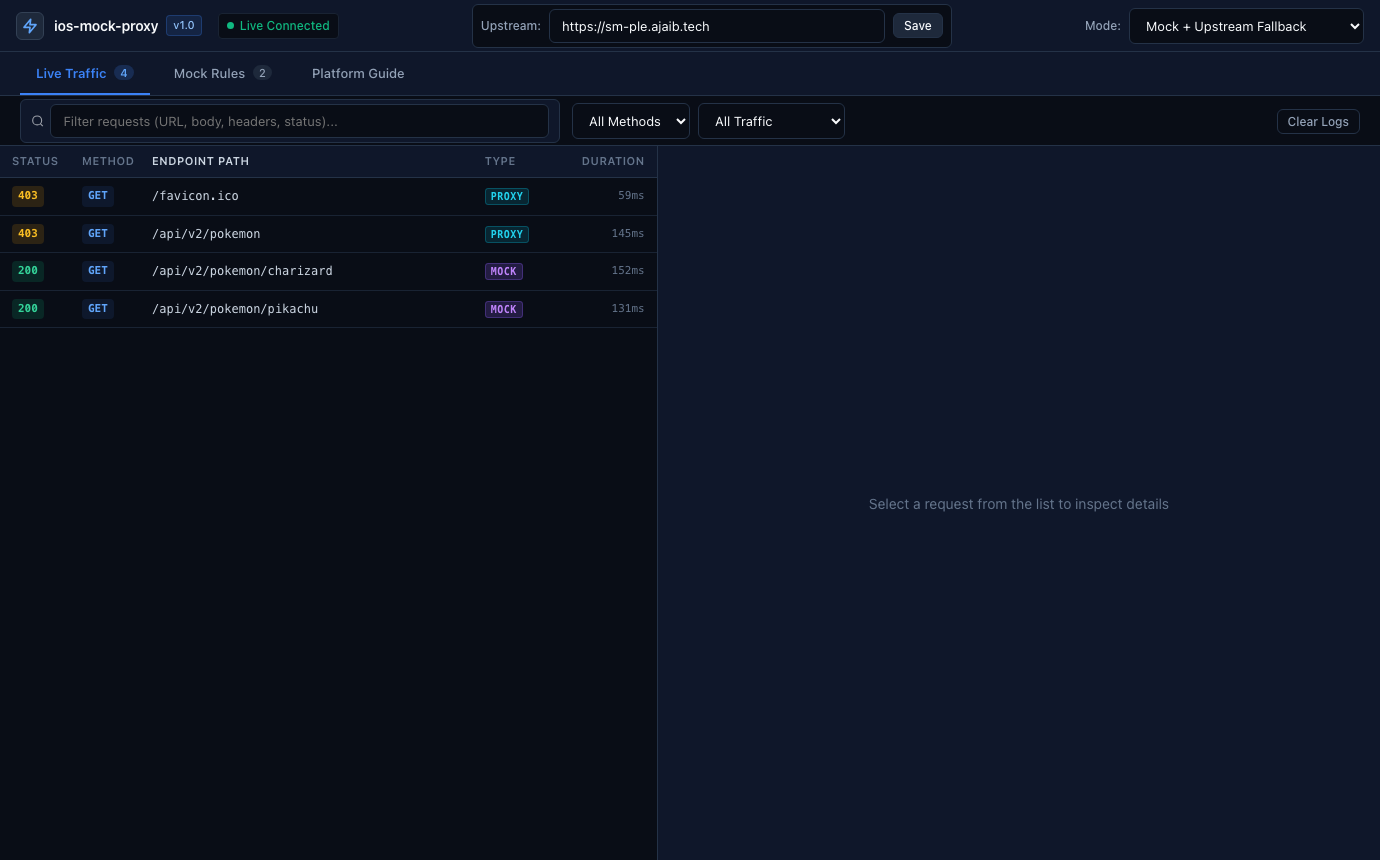
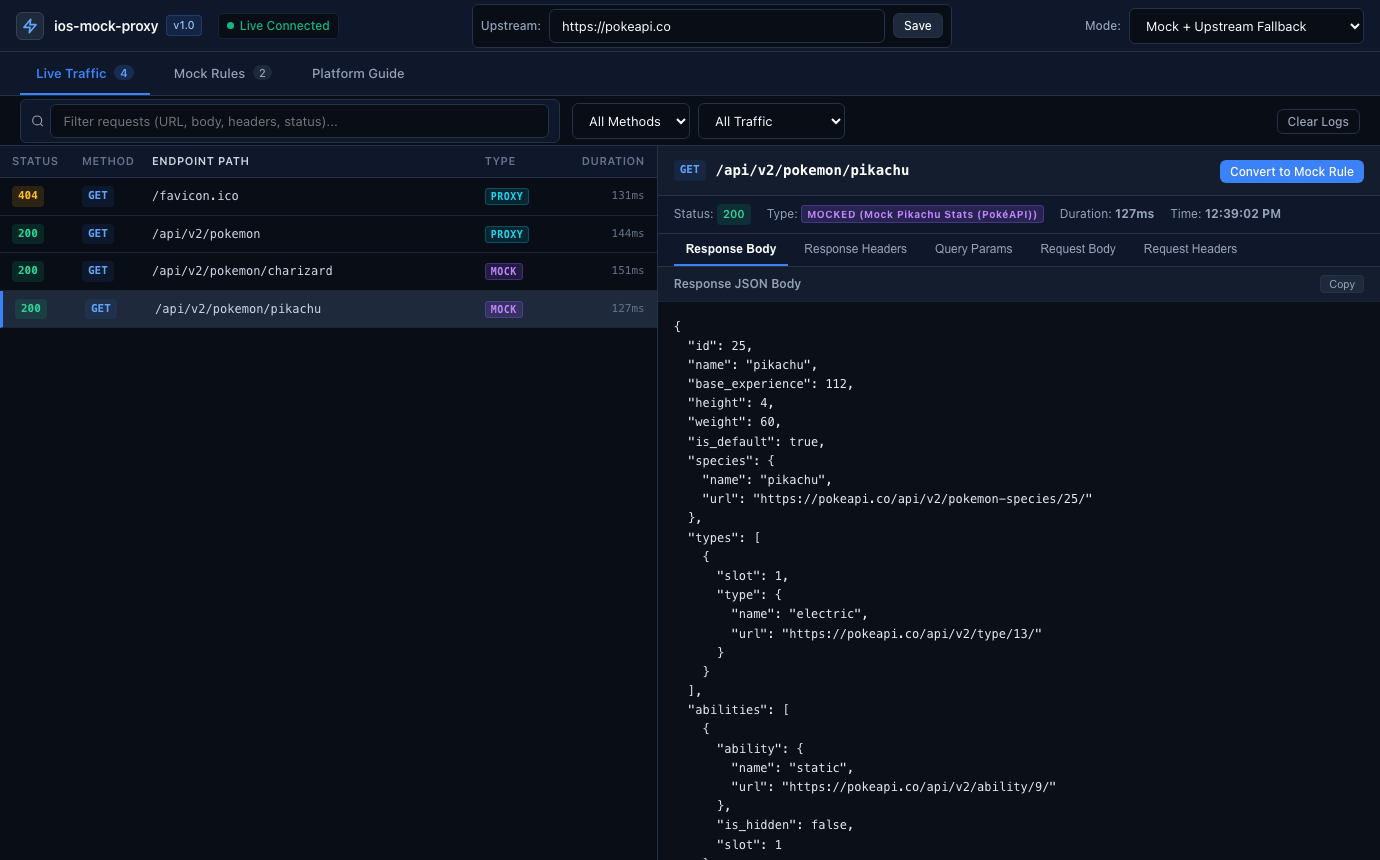
docs: Update screenshots with populated PokéAPI JSON response and syntax-highlighted editor

diff --git a/public/app.js b/public/app.js
@@ -137,6 +137,16 @@ document.addEventListener('DOMContentLoaded', () => {
       traffic = await res.json();
       trafficCountBadge.textContent = traffic.length;
       renderTraffic();
+
+      const urlParams = new URLSearchParams(window.location.search);
+      if (urlParams.get('demo') === 'inspect' && traffic.length > 0) {
+        const pikachuItem = traffic.find(t => (t.path || '').includes('/api/v2/pokemon/pikachu')) || traffic[0];
+        if (pikachuItem) {
+          inspectTraffic(pikachuItem);
+          selectedTrafficId = pikachuItem.id;
+          renderTraffic();
+        }
+      }
     } catch (e) {
       console.error('Failed to fetch traffic', e);
     }
@@ -594,21 +604,31 @@ document.addEventListener('DOMContentLoaded', () => {
     ruleStatusCodeSelect.value = prefill.statusCode || '200';
     ruleDelayInput.value = prefill.delay || '0';
     
-    setEditorValue(cmEditorResp, ruleBodyTextarea, prefill.body || '{\n  "status": "success",\n  "data": {}\n}');
-    setEditorValue(cmEditorParams, reqOverrideParamsTextarea, prefill.reqOverrideParams || '');
-    setEditorValue(cmEditorReqBody, reqOverrideBodyTextarea, prefill.reqOverrideBody || '');
-    
-    validateJsonInput(cmEditorResp, ruleBodyTextarea, jsonValidationMsgResp);
-    validateJsonInput(cmEditorParams, reqOverrideParamsTextarea, jsonValidationMsgParams, true);
-    validateJsonInput(cmEditorReqBody, reqOverrideBodyTextarea, jsonValidationMsgReq, true);
-    
+    ruleBodyTextarea.value = prefill.body || '{\n  "status": "success",\n  "data": {}\n}';
+    reqOverrideParamsTextarea.value = prefill.reqOverrideParams || '';
+    reqOverrideBodyTextarea.value = prefill.reqOverrideBody || '';
+
     syncActionVisibility();
     ruleModal.style.display = 'flex';
-    setTimeout(() => {
-      if (cmEditorResp) cmEditorResp.refresh();
-      if (cmEditorParams) cmEditorParams.refresh();
-      if (cmEditorReqBody) cmEditorReqBody.refresh();
-    }, 80);
+
+    if (cmEditorResp) {
+      cmEditorResp.setValue(ruleBodyTextarea.value);
+      cmEditorResp.refresh();
+      validateJsonInput(cmEditorResp, ruleBodyTextarea, jsonValidationMsgResp);
+      setTimeout(() => cmEditorResp.refresh(), 50);
+    }
+    if (cmEditorParams) {
+      cmEditorParams.setValue(reqOverrideParamsTextarea.value);
+      cmEditorParams.refresh();
+      validateJsonInput(cmEditorParams, reqOverrideParamsTextarea, jsonValidationMsgParams, true);
+      setTimeout(() => cmEditorParams.refresh(), 50);
+    }
+    if (cmEditorReqBody) {
+      cmEditorReqBody.setValue(reqOverrideBodyTextarea.value);
+      cmEditorReqBody.refresh();
+      validateJsonInput(cmEditorReqBody, reqOverrideBodyTextarea, jsonValidationMsgReq, true);
+      setTimeout(() => cmEditorReqBody.refresh(), 50);
+    }
   }
 
   function openRuleModalForEdit(rule) {
@@ -622,32 +642,45 @@ document.addEventListener('DOMContentLoaded', () => {
     ruleMethodSelect.value = rule.method || 'GET';
     ruleMatchTypeSelect.value = rule.matchType || 'exact';
     rulePathInput.value = rule.path || '';
-    ruleStatusCodeSelect.value = rule.statusCode || '200';
+    ruleStatusCodeSelect.value = String(rule.statusCode || 200);
     ruleDelayInput.value = rule.delay || '0';
     
     let bodyStr = rule.body;
     if (typeof bodyStr !== 'string') bodyStr = JSON.stringify(bodyStr, null, 2);
-    setEditorValue(cmEditorResp, ruleBodyTextarea, bodyStr || '');
+    ruleBodyTextarea.value = bodyStr || '';
 
     let paramsStr = rule.reqOverrideParams;
     if (typeof paramsStr !== 'string' && paramsStr) paramsStr = JSON.stringify(paramsStr, null, 2);
-    setEditorValue(cmEditorParams, reqOverrideParamsTextarea, paramsStr || '');
+    reqOverrideParamsTextarea.value = paramsStr || '';
 
     let reqBodyStr = rule.reqOverrideBody;
     if (typeof reqBodyStr !== 'string' && reqBodyStr) reqBodyStr = JSON.stringify(reqBodyStr, null, 2);
-    setEditorValue(cmEditorReqBody, reqOverrideBodyTextarea, reqBodyStr || '');
+    reqOverrideBodyTextarea.value = reqBodyStr || '';
 
-    validateJsonInput(cmEditorResp, ruleBodyTextarea, jsonValidationMsgResp);
-    validateJsonInput(cmEditorParams, reqOverrideParamsTextarea, jsonValidationMsgParams, true);
-    validateJsonInput(cmEditorReqBody, reqOverrideBodyTextarea, jsonValidationMsgReq, true);
-    
     syncActionVisibility();
     ruleModal.style.display = 'flex';
-    setTimeout(() => {
-      if (cmEditorResp) cmEditorResp.refresh();
-      if (cmEditorParams) cmEditorParams.refresh();
-      if (cmEditorReqBody) cmEditorReqBody.refresh();
-    }, 80);
+
+    if (cmEditorResp) {
+      cmEditorResp.setValue(ruleBodyTextarea.value);
+      setTimeout(() => {
+        cmEditorResp.refresh();
+        validateJsonInput(cmEditorResp, ruleBodyTextarea, jsonValidationMsgResp);
+      }, 50);
+    }
+    if (cmEditorParams) {
+      cmEditorParams.setValue(reqOverrideParamsTextarea.value);
+      setTimeout(() => {
+        cmEditorParams.refresh();
+        validateJsonInput(cmEditorParams, reqOverrideParamsTextarea, jsonValidationMsgParams, true);
+      }, 50);
+    }
+    if (cmEditorReqBody) {
+      cmEditorReqBody.setValue(reqOverrideBodyTextarea.value);
+      setTimeout(() => {
+        cmEditorReqBody.refresh();
+        validateJsonInput(cmEditorReqBody, reqOverrideBodyTextarea, jsonValidationMsgReq, true);
+      }, 50);
+    }
   }
 
   function closeRuleModal() {
@@ -857,34 +890,32 @@ document.addEventListener('DOMContentLoaded', () => {
       if (targetRow) targetRow.click();
     }, 1200);
   } else if (urlParams.get('demo') === 'modal') {
-    setTimeout(() => {
-      openRuleModalForCreate({
-        name: 'Mock Pikachu Stats (PokéAPI)',
-        method: 'GET',
-        path: '/api/v2/pokemon/pikachu',
-        statusCode: 200,
-        delay: 120,
-        body: JSON.stringify({
-          id: 25,
-          name: "pikachu",
-          base_experience: 112,
-          height: 4,
-          weight: 60,
-          is_default: true,
-          types: [
-            { slot: 1, type: { name: "electric" } }
-          ],
-          abilities: [
-            { ability: { name: "static" }, is_hidden: false },
-            { ability: { name: "lightning-rod" }, is_hidden: true }
-          ],
-          stats: [
-            { base_stat: 35, stat: { name: "hp" } },
-            { base_stat: 55, stat: { name: "attack" } },
-            { base_stat: 90, stat: { name: "speed" } }
-          ]
-        }, null, 2)
-      });
-    }, 500);
+    openRuleModalForCreate({
+      name: 'Mock Pikachu Stats (PokéAPI)',
+      method: 'GET',
+      path: '/api/v2/pokemon/pikachu',
+      statusCode: 200,
+      delay: 120,
+      body: JSON.stringify({
+        id: 25,
+        name: "pikachu",
+        base_experience: 112,
+        height: 4,
+        weight: 60,
+        is_default: true,
+        types: [
+          { slot: 1, type: { name: "electric" } }
+        ],
+        abilities: [
+          { ability: { name: "static" }, is_hidden: false },
+          { ability: { name: "lightning-rod" }, is_hidden: true }
+        ],
+        stats: [
+          { base_stat: 35, stat: { name: "hp" } },
+          { base_stat: 55, stat: { name: "attack" } },
+          { base_stat: 90, stat: { name: "speed" } }
+        ]
+      }, null, 2)
+    });
   }
 });
